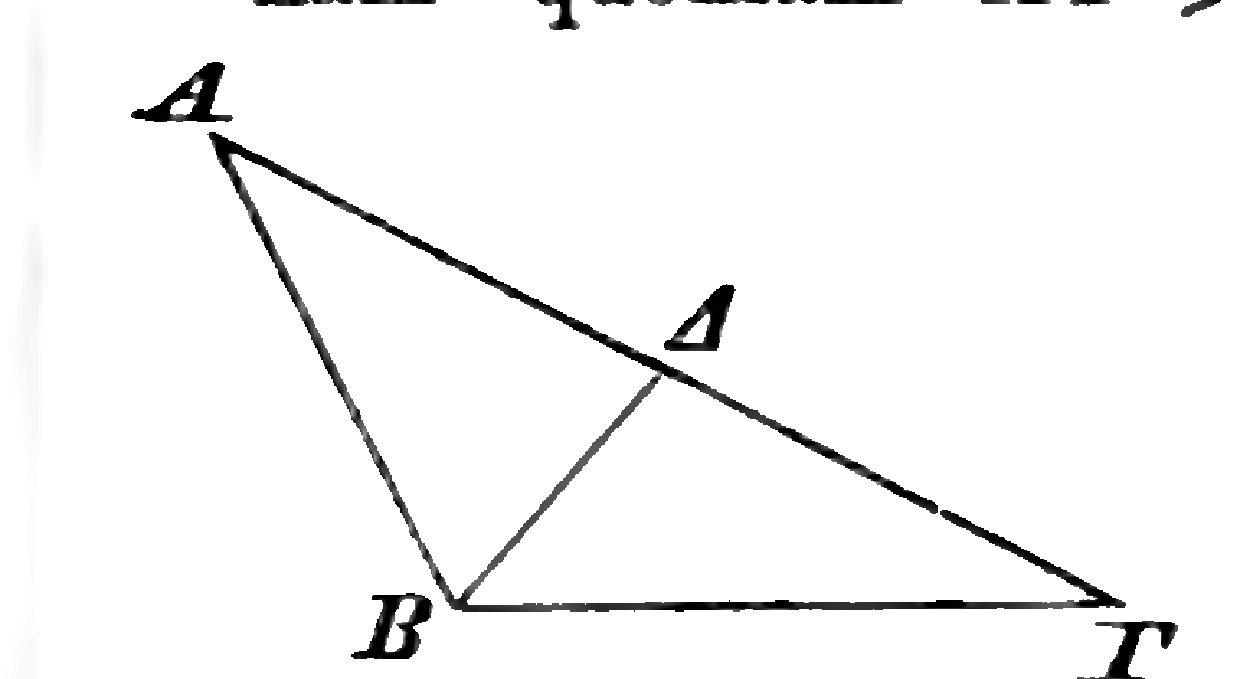
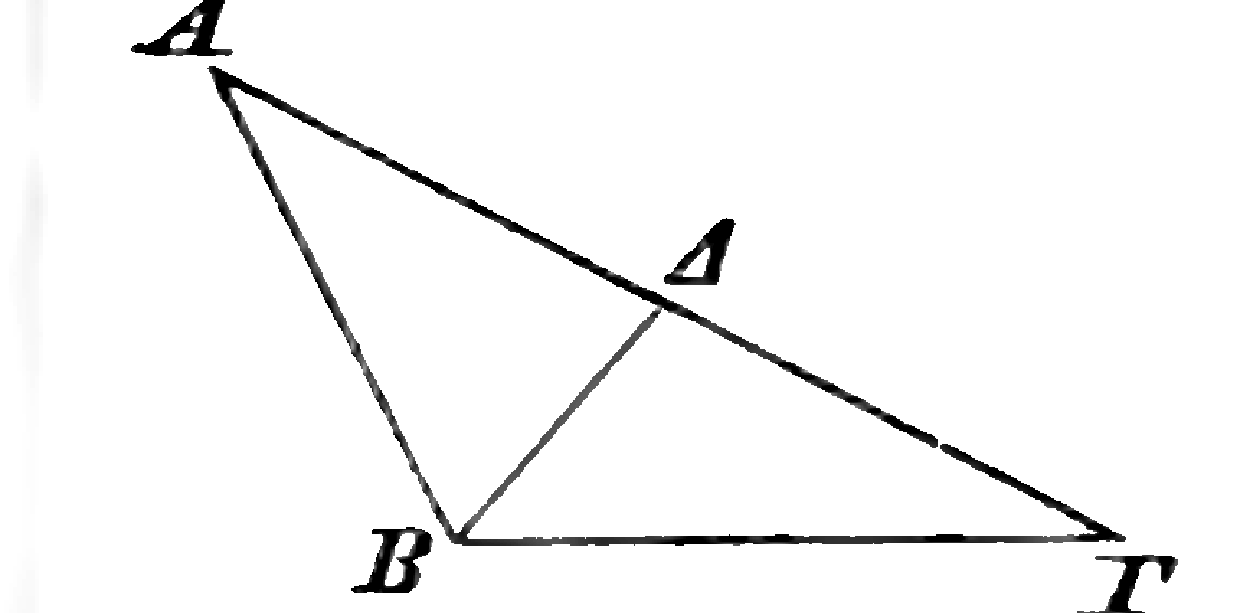
Fix remaining flagged Euclid Book I diagrams from user's catalogue review
User flagged 26 propositions after reviewing every diagram against the
original Heiberg plates; fixes real content-completeness bugs (props 9,
15, 27, 42, 44, 45, 47 were missing points/labels cut off by too-narrow
coarse crops) and cosmetic text-bleed/cut-letter issues (the remaining
17 flagged props) by widening or narrowing each crop's tight/trim boxes
against the source page. Prop 23 was re-verified as already complete.
Prop 42 also had a stale, unmanaged trimmed image because it was
missing from trimbox.json entirely.

diff --git a/scripts/import-euclid/index.ts b/scripts/import-euclid/index.ts
@@ -165,16 +165,16 @@ function main(): void {
    * cover) keeps the honest "not yet available" note below.
    */
   const BOOK_1_DIAGRAM_SIZE: Record<number, [number, number]> = {
-    1: [1332, 941], 2: [1180, 1154], 3: [991, 829], 4: [795, 1129], 5: [892, 1129],
-    6: [811, 734], 7: [1053, 697], 8: [1101, 731], 9: [610, 759], 10: [714, 705],
-    11: [1143, 893], 12: [1166, 822], 13: [731, 725], 14: [972, 484], 15: [908, 735],
-    16: [779, 806], 17: [1037, 681], 18: [1238, 679], 19: [634, 989], 20: [904, 936],
-    21: [1322, 867], 22: [2371, 834], 23: [892, 1045], 24: [1053, 741], 25: [906, 752],
-    26: [1274, 731], 27: [1710, 604], 28: [1060, 915], 29: [936, 885], 30: [976, 756],
+    1: [1332, 941], 2: [1180, 1154], 3: [991, 829], 4: [795, 1129], 5: [838, 1046],
+    6: [746, 702], 7: [1053, 697], 8: [1046, 677], 9: [513, 1035], 10: [714, 705],
+    11: [1108, 754], 12: [1166, 822], 13: [731, 725], 14: [972, 484], 15: [1008, 746],
+    16: [779, 806], 17: [1037, 645], 18: [1238, 613], 19: [648, 1026], 20: [873, 980],
+    21: [1322, 867], 22: [2371, 797], 23: [892, 1045], 24: [1000, 741], 25: [906, 752],
+    26: [1139, 731], 27: [1803, 608], 28: [1060, 832], 29: [1024, 885], 30: [976, 756],
     31: [1004, 555], 32: [740, 608], 33: [1048, 680], 34: [969, 554], 35: [1104, 542],
-    36: [1583, 644], 37: [1049, 517], 38: [1044, 534], 39: [1014, 613], 40: [1081, 547],
-    41: [954, 517], 42: [957, 518], 43: [1164, 714], 44: [1004, 1190], 45: [811, 1136],
-    46: [662, 830], 47: [1037, 714], 48: [758, 995],
+    36: [1583, 644], 37: [1049, 517], 38: [1044, 534], 39: [875, 613], 40: [985, 506],
+    41: [954, 521], 42: [1149, 436], 43: [1164, 714], 44: [953, 1147], 45: [848, 1012],
+    46: [662, 830], 47: [1130, 1116], 48: [731, 931],
   };
   const BOOK_1_DIAGRAMS: Record<string, { image: string; width: number; height: number }> =
     Object.fromEntries(
